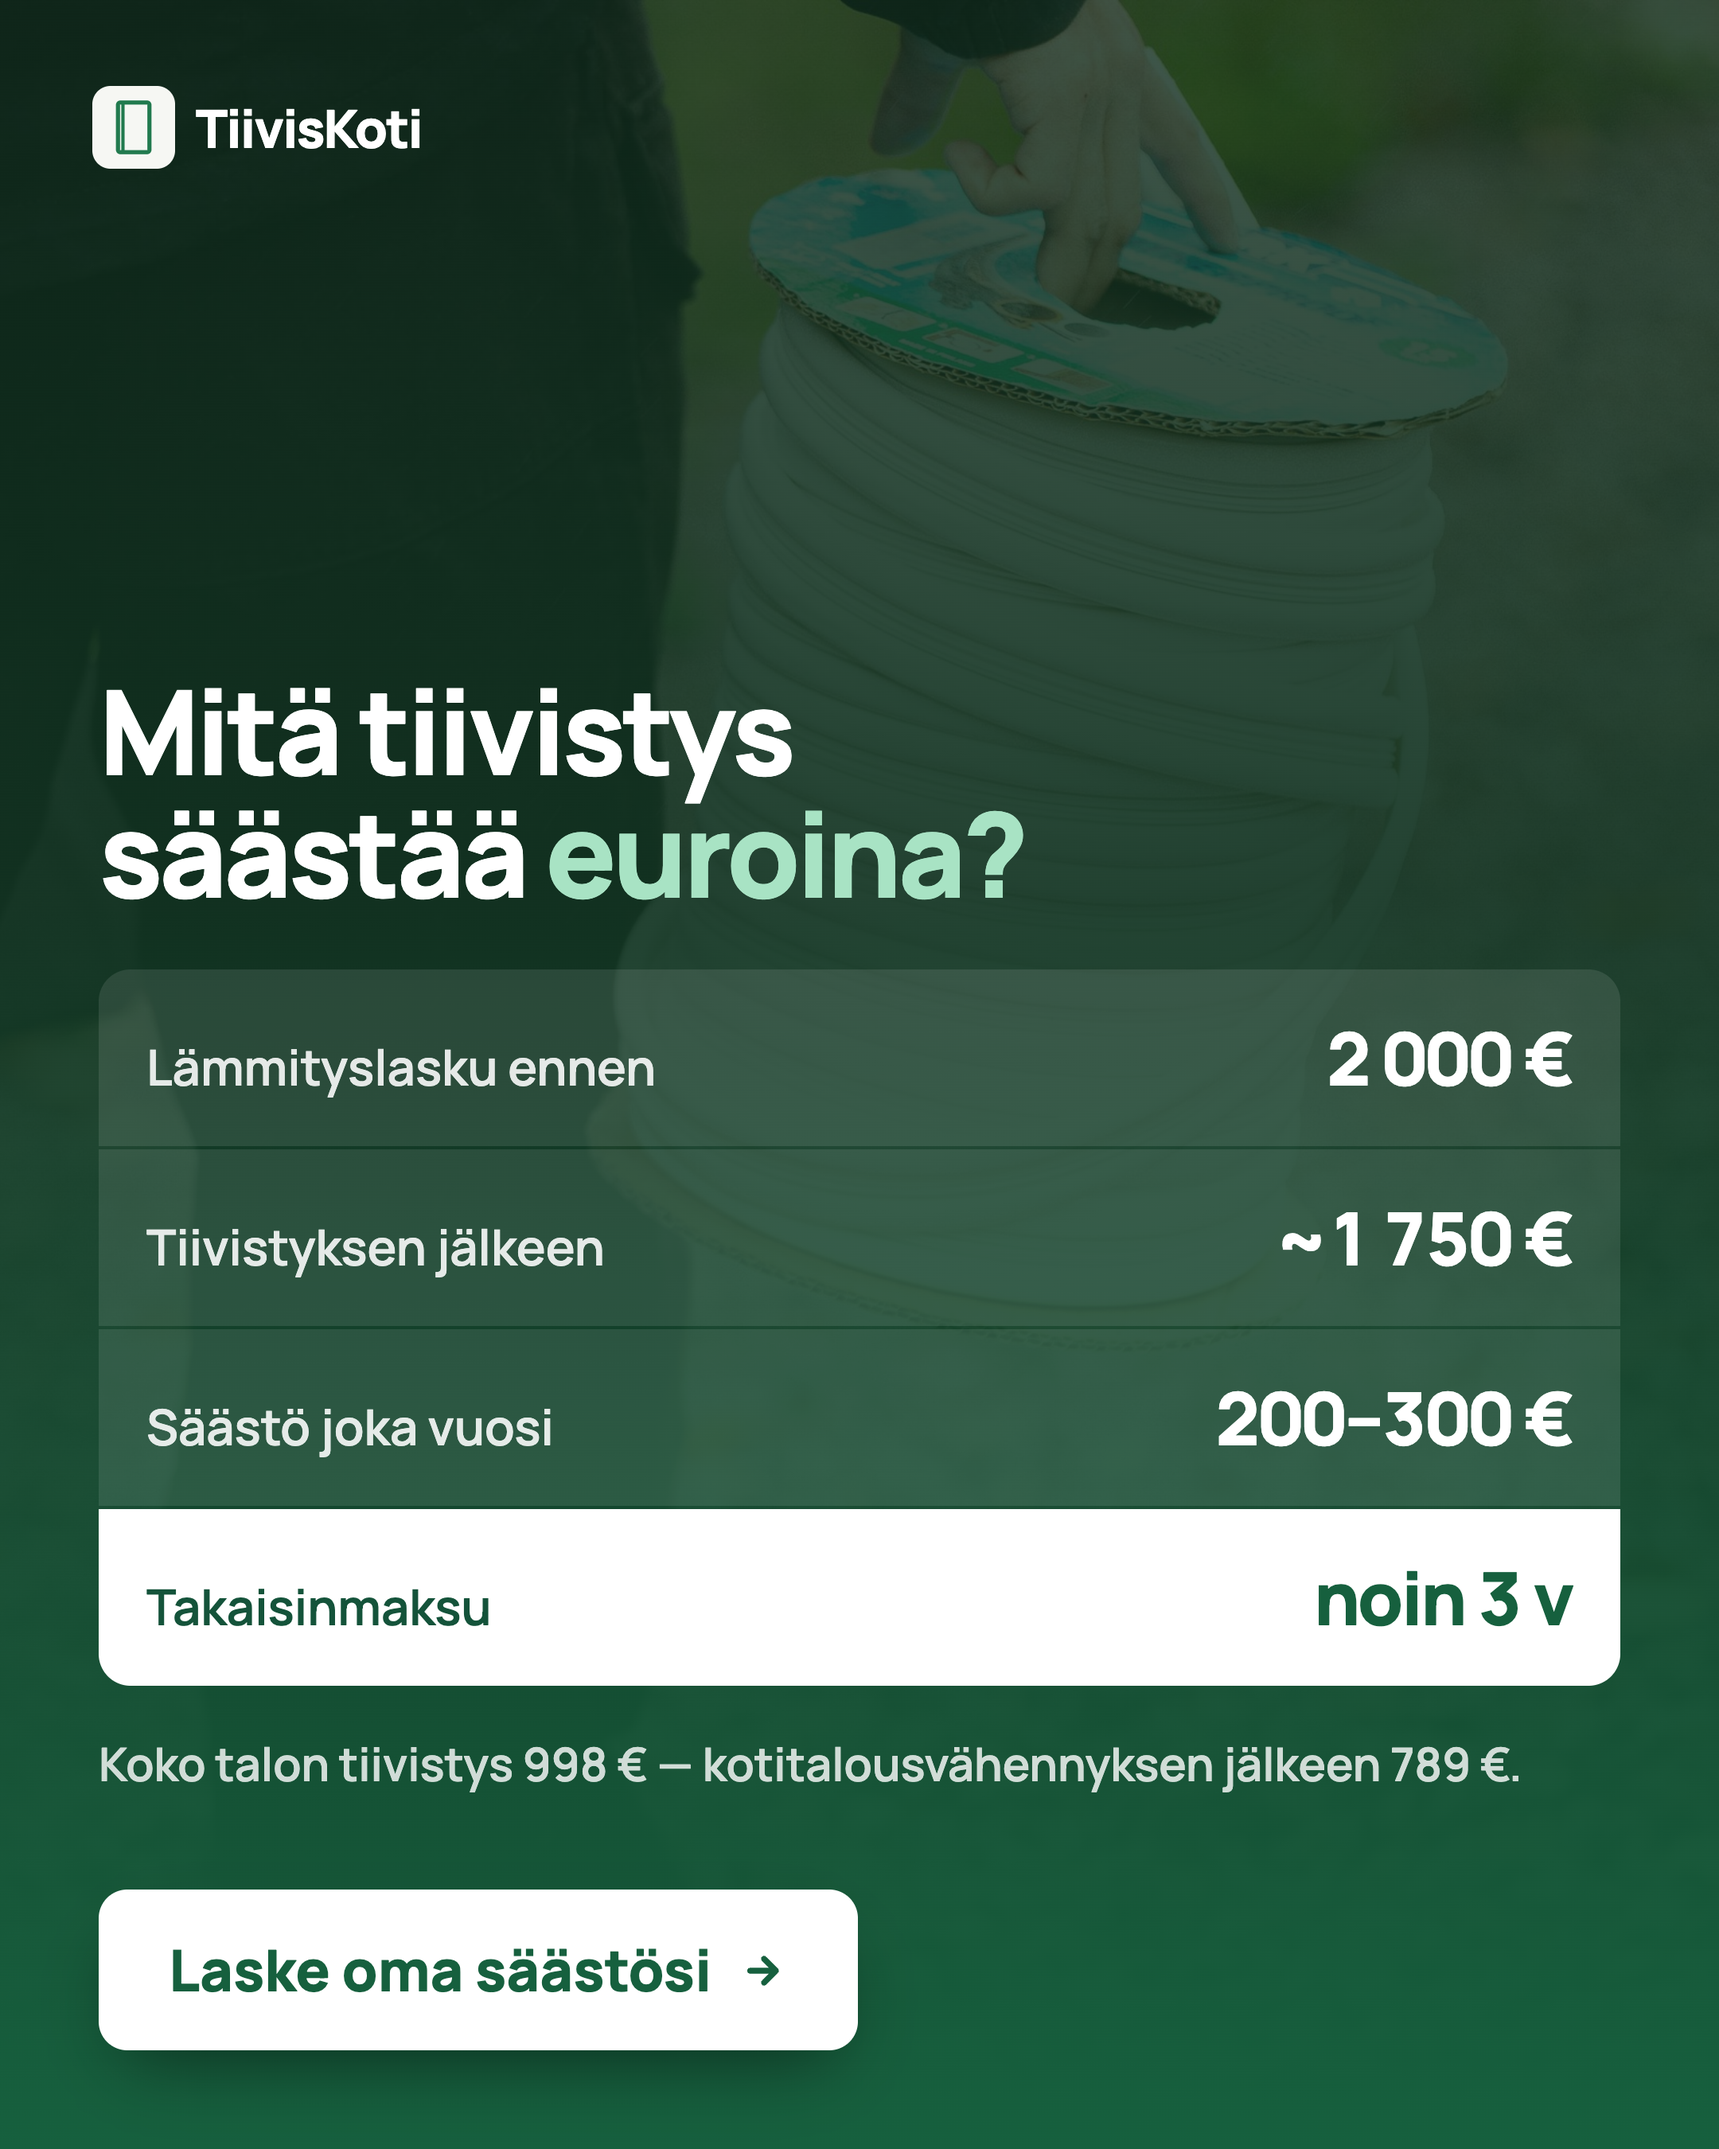
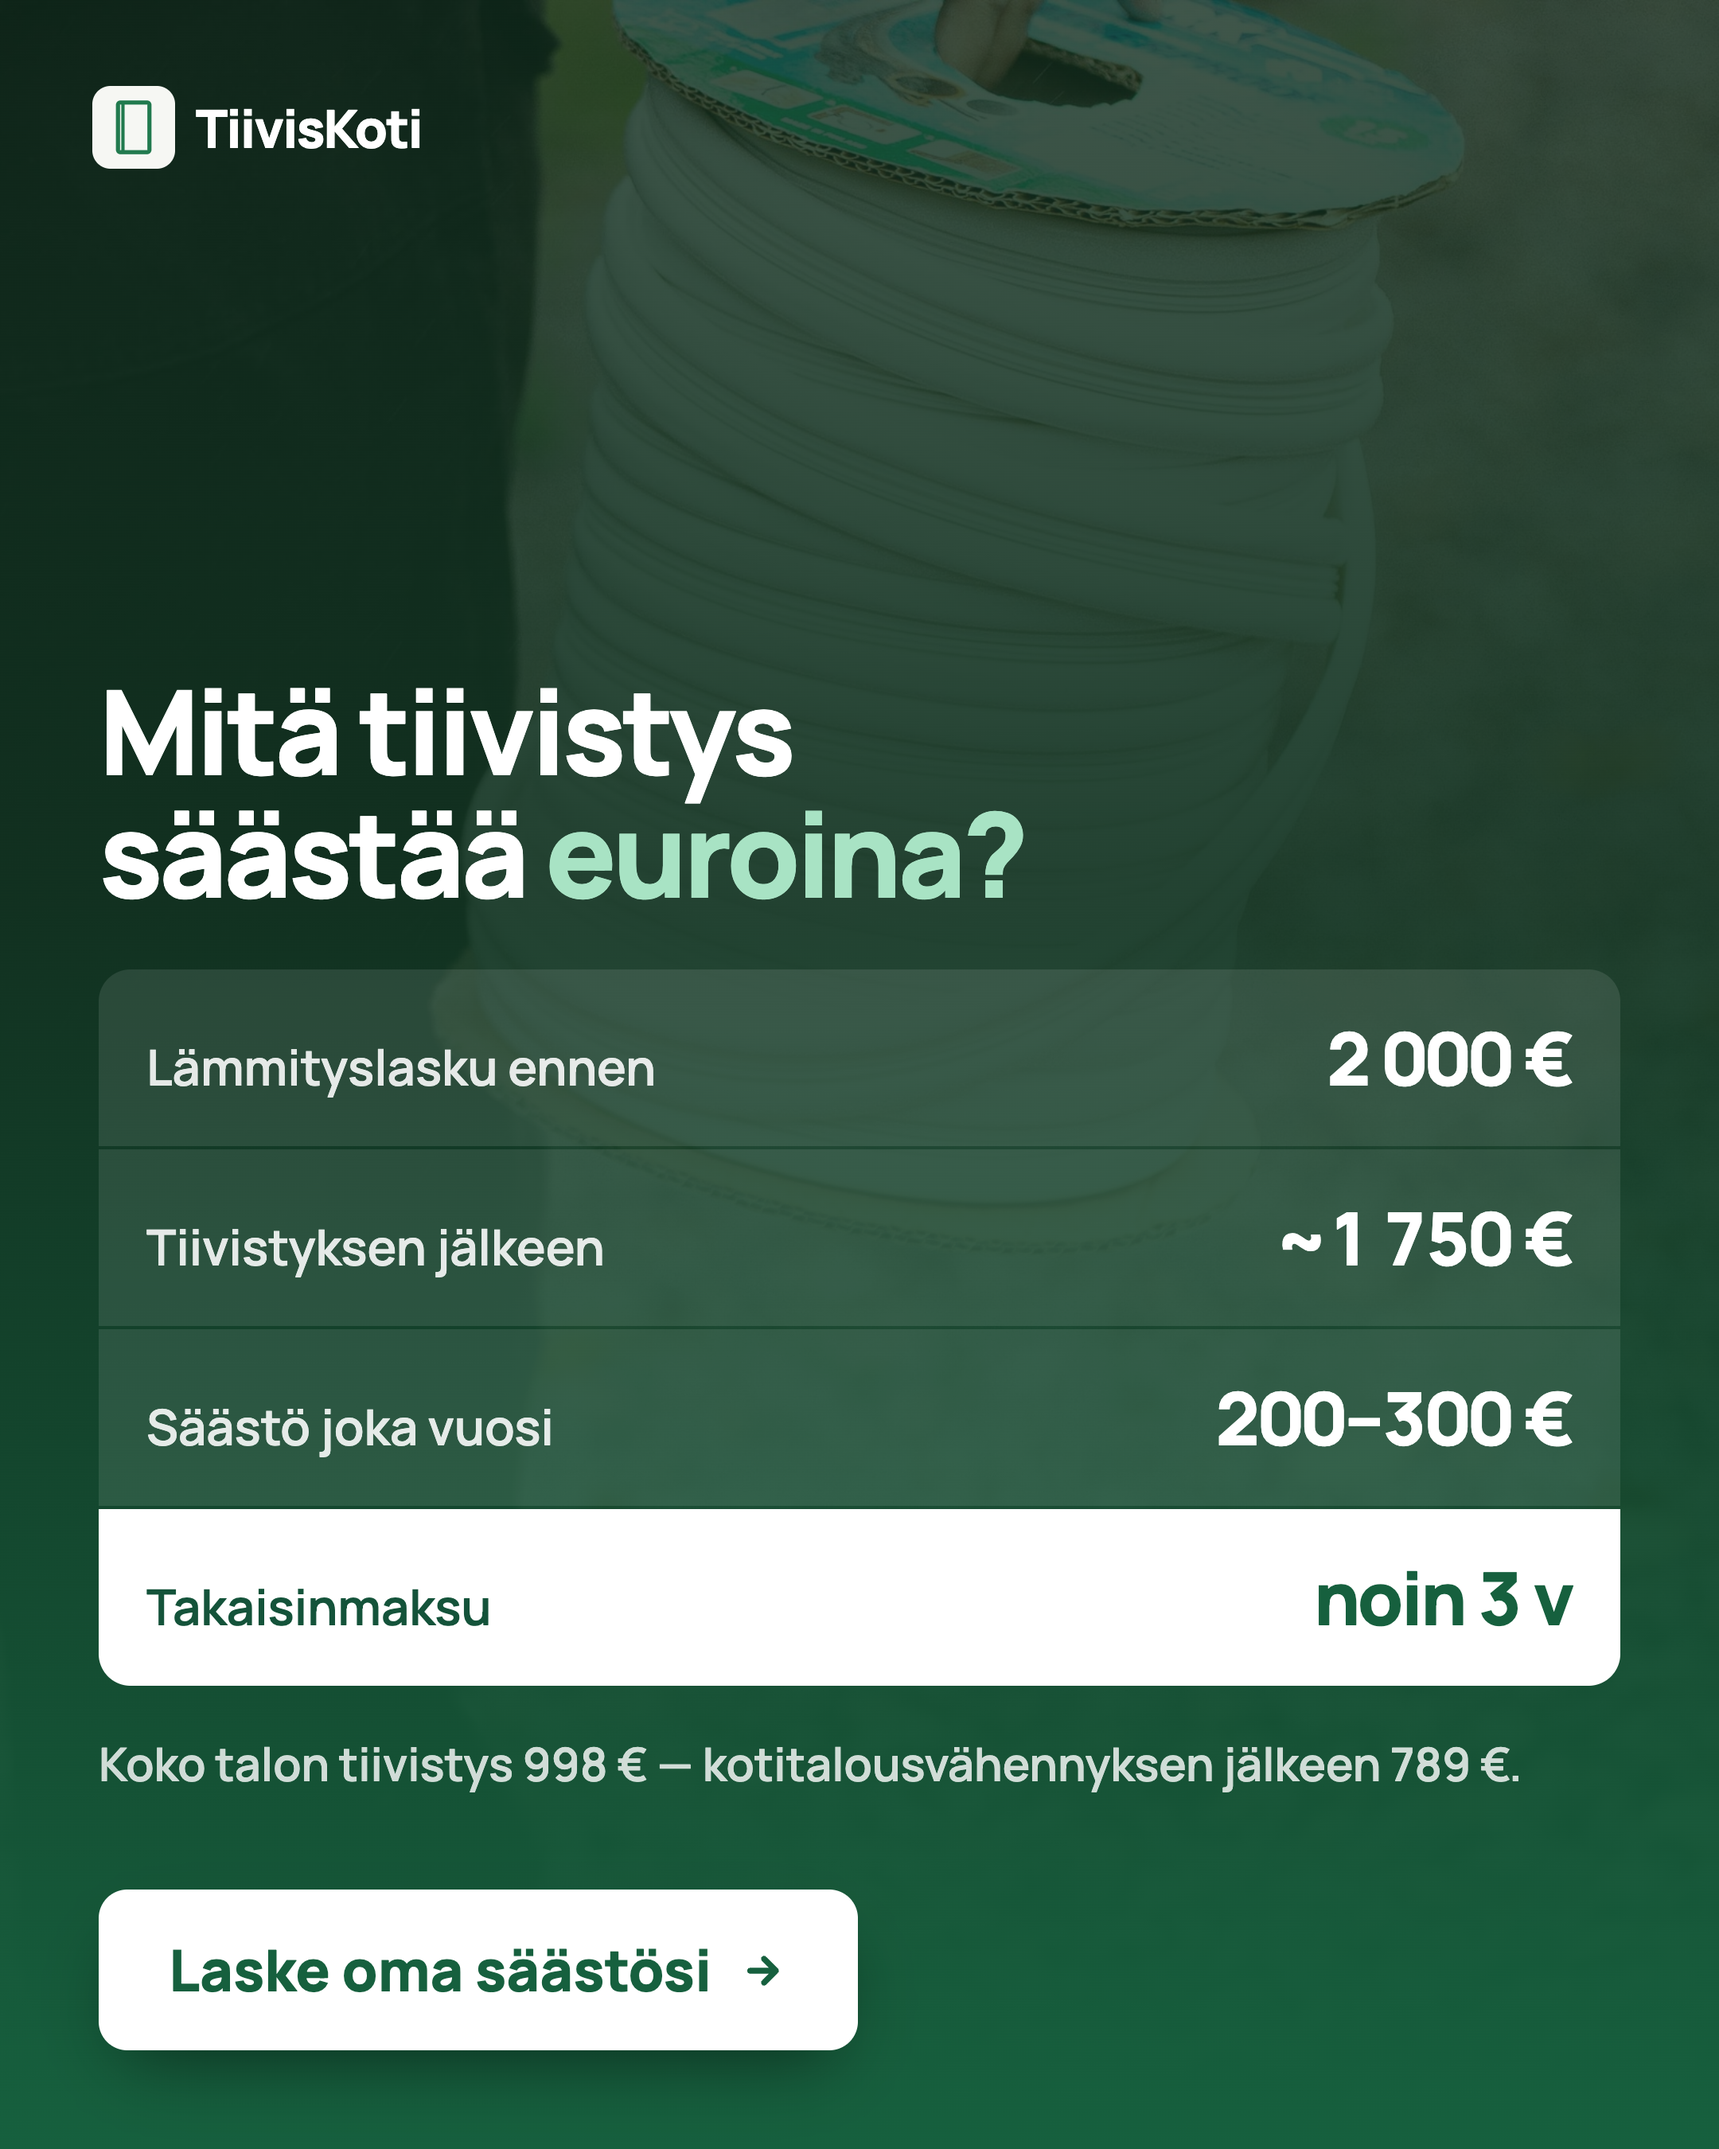
TK52 todistettuun sanamuotoon, uudet tiivistekuvat TK52:lle ja TK48:lle
Josua: vaihda TK52:n ja TK48:n kuvat toisiin tiivistekuviin, ja TK52:n
teksti muotoon "Ikkunan tiivistys alkaen 75 EUR / 1 200 EUR uusi ikkuna".

TEKSTI. TK52 oli "Sama ikkuna: 75 EUR tai 1 200 EUR" — oma muotoiluni
samasta vertailusta. Nyt sanamuoto on TASMALLEEN voittavan TK37:n.

Se tekee perheesta A paremman testin kuin se oli. Nyt siina on puhdas
risti: TK51 = uusi teksti + todistettu kuva, TK52 = todistettu teksti +
uusi kuva. Jos toinen voittaa, tiedetaan kumpi puoli sen selitti.
Aiemmin molemmissa oli uusi teksti, jolloin kuvan osuus olisi jaanyt
arvailuksi.

KUVAT. Tiivistekuvia oli kaytetty jo lahes kaikki, joten poimin videosta
uuden puhtaan ruudun: tiiviste painetaan uraan (17,2 s) ->
kuvat/vid-tiiviste-uraan.jpg. Se meni TK52:lle, ja siita vapautunut
kelakuva TK48:lle. Ei paallekkaisia kuvia missaan.

Ei viety mainostilille.

Changed region(s): [[0.3102, 0.0, 0.8995, 0.3111], [0.6204, 0.1867, 0.7755, 0.2178]]

diff --git a/tiiviskoti/mainokset/mainos-tk52-ankkuri-yksi.html b/tiiviskoti/mainokset/mainos-tk52-ankkuri-yksi.html
@@ -8,12 +8,13 @@
 <link href="_niukka.css" rel="stylesheet">
 </head>
 <body>
-  <!-- TK52 ANKKURI, YHDEN IKKUNAN MITTAKAAVA. Perhe A variaatio 3/3.
-       Jyrkin muoto: sama kohde, kaksi hintaa, ei muuta. Testaa onko
-       parivertailu tehokkaampi kuin lause. 75 EUR on ikkunan
-       halvin porras (14+ kpl) ja 1 200 EUR vaihdon suuruusluokka -
-       sama pari kuin voittavassa TK37:ssa. -->
-  <div class="photo"><img src="kuvat/ad-kela.jpg" alt=""></div>
+  <!-- TK52 ANKKURI, TODISTETTU TEKSTI + UUSI KUVA. Perhe A variaatio 3/3.
+       Sanamuoto on TASMALLEEN voittavan TK37:n, joten ainoa muuttuja on
+       kuva. Yhdessa TK51:n kanssa tama muodostaa puhtaan ristin:
+       TK51 = uusi teksti + todistettu kuva, TK52 = todistettu teksti +
+       uusi kuva. Nain tiedetaan kumpi puoli selittaa eron.
+       Kuva: tiiviste painetaan uraan, poimittu videosta 17,2 s. -->
+  <div class="photo"><img src="kuvat/vid-tiiviste-uraan.jpg" alt=""></div>
   <div class="wash"></div>
   <div class="mark">
     <svg viewBox="0 0 100 100">
@@ -24,8 +25,8 @@
     <span>TiivisKoti</span>
   </div>
   <div class="block">
-    <h1><span class="hl">Sama ikkuna:<br>75 € tai 1 200 €.</span><br><span class="anchor">Tiivistys tai vaihto. Veto loppuu kummallakin.</span></h1>
-    <p class="sub">Ikkunan tiivistys alk. 75 € määrän mukaan · pienin käynti 149 €</p>
+    <h1><span class="hl">Ikkunan tiivistys<br>alkaen 75 €.</span><br><span class="anchor">Uusi ikkuna maksaisi 1 200 €.</span></h1>
+    <p class="sub">Määrän mukaan 75–90 € / kpl · pienin käynti 149 €</p>
     <span class="btn">Katso hinta
       <svg viewBox="0 0 24 24" fill="none" stroke-width="3" stroke-linecap="round" stroke-linejoin="round"><path d="M5 12h12M12 6l6 6-6 6"/></svg>
     </span>

diff --git a/tiiviskoti/mainokset/mainos-tk48-saasto.html b/tiiviskoti/mainokset/mainos-tk48-saasto.html
@@ -10,7 +10,7 @@
 <body>
   <!-- TK48 SAASTO EUROINA. Otsikko nimeaa palvelun; ilman sita paneeli olisi
        pelkka lukutaulukko jota ei osaa yhdistaa mihinkaan. -->
-  <div class="photo"><img src="kuvat/ad-veto.jpg" alt=""></div>
+  <div class="photo"><img src="kuvat/ad-kela.jpg" alt=""></div>
   <div class="wash"></div>
   <div class="mark">
     <svg viewBox="0 0 100 100">
